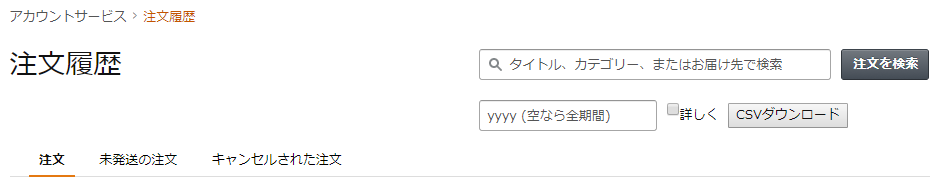
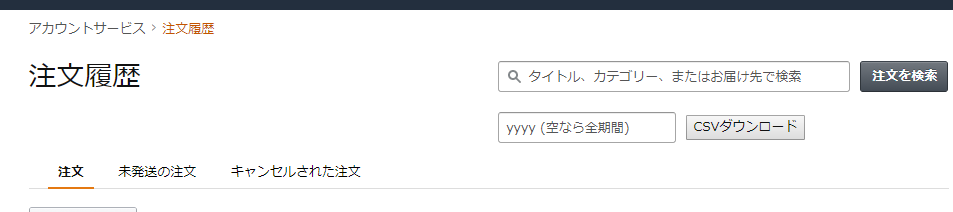
add more fields and improve number of http accesses

diff --git a/AmazonJpGetOrderHistory/amazonJpGetOrderHistory.user.js b/AmazonJpGetOrderHistory/amazonJpGetOrderHistory.user.js
@@ -11,17 +11,146 @@
 
 waitForKeyElements("#searchForm", appendForm);
 
-function main(year, detailFlag) {
+function appendForm() {
+    $("#searchForm").parent().parent().parent().after(`
+<div class="a-row">
+    <div class="a-column a-span6 a-span-last">
+        <form id="get-order-history-form">
+            <input id="get-order-history-year" type="text" placeholder="yyyy (空なら全期間)" pattern="[0-9]{4}" maxLength="4">
+            <input id="get-order-history-button" type="submit" value="CSVダウンロード">
+        </form>
+    </div>
+</div>
+    `);
+    $("#get-order-history-form").submit(function() {
+        event.preventDefault();
+        main($("#get-order-history-year").val());
+    });
+}
+
+function main(year) {
     var yearList = getYearList();
     if(!!year) {
         if(yearList.includes(year)){
-            getOrderHistory([year], detailFlag);
+            getOrderHistory([year]);
         } else {
             alert("no order for that year");
         }
     } else {
-        getOrderHistory(yearList, detailFlag);
+        getOrderHistory(yearList);
     }
+}
+
+function getYearList() {
+   var list = [];
+   $.each($("[id^=orderFilterEntry-year-]"), function(i, val) {
+       var text = $(val).text().trim();
+       list.push(text.substr(0, 4));
+   });
+   return list;
+}
+
+function getOrderHistory(yearList) {
+    var pageList = [], purchaseList = [], orderInfoList = [];
+    $.when.apply(null,  getYearRequestList(yearList, pageList))
+    .then(function() { // created page list
+        $.when.apply(null, getPageRequestList(pageList, purchaseList, orderInfoList))
+        .then(function() { // created most data but need to finalize with detail access for some orders.
+            $.when.apply(null,  getOrderRequestList(orderInfoList, purchaseList))
+            .then(function() {
+                sortByDate(purchaseList);
+                download(purchaseList);
+//                console.table(purchaseList);
+            });
+        });
+    });
+}
+
+function getYearRequestList(yearList, pageList) {
+    var list = [];
+    $.each(yearList, function(i, year) {
+        list.push(createAjaxRequest("/gp/your-account/order-history/?orderFilter=year-" + year, function(data) {
+          pageList.push.apply(pageList, getPageList(data, year));
+        }));
+    });
+    return list;
+}
+
+function getPageList(html, year) {
+    var list = [];
+    var lastIdx = (parseInt($(html).find("ul.a-pagination li.a-normal:last a").text()) - 1) * 10;
+    if(isNaN(lastIdx)) {
+        lastIdx = 0;
+    }
+    for(var idx = lastIdx; idx >= 0; idx -= 10) {
+        list.push("/gp/your-account/order-history/?orderFilter=year-" + year + "&startIndex=" + idx);
+    }
+    return list;
+}
+
+function getPageRequestList(pageList, purchaseList, orderInfoList) {
+    var list = [];
+    $.each(pageList, function(i, page) {
+        list.push(createAjaxRequest(page, function(data) {
+            fillList(data, purchaseList, orderInfoList);
+        }));
+    });
+    return list;
+}
+
+function fillList(html, purchaseList, orderInfoList) {
+    var orderList = $(html).find(".order");
+    $.each(orderList, function(i, order){
+        var values = $(order).find(".order-info .a-color-secondary.value");
+        var orderInfo = {
+            "id": values[2].innerText.trim(),
+            "date": fillZero(values[0].innerText.replace(/[年月]/g,"-").replace("日","").trim()),
+            "price": values[1].innerText.replace(/[￥,]/g,"").trim()
+        };
+
+        if($(order).find(".shipment .a-fixed-right-grid:contains('すべての商品を表示')").length) {
+            orderInfoList.push(orderInfo);
+        } else {
+            purchaseList.push.apply(purchaseList, getPurchaseItemList(order, orderInfo));
+        }
+    });
+}
+
+function getPurchaseItemList(html, orderInfo) {
+    var list = [];
+    var itemList = $(html).find(".shipment .a-fixed-left-grid");
+    $.each(itemList, function(i, item) {
+        var detail = $(item).find(".a-fixed-left-grid-col.a-col-right > .a-row");
+        list.push({
+            "id": orderInfo.id,
+            "date": orderInfo.date,
+            "name": detail[0].innerText.trim().replace(/^商品名：|、数量：\d+$|,/g,"").split("\n")[0],
+            "url": "https://www.amazon.co.jp" + $(detail[0]).find("a").attr("href").split("ref=")[0],
+            "seller": detail.find("span:contains('販売: ')").text().trim().replace(/^販売:|,/g,"").trim().trim().split("\n")[0],
+            "unitPrice": detail.find("span:contains('￥ ')").text().replace(/[￥,]/g,"").trim(),
+            "quantity": $(item).find(".item-view-qty").text().trim() || "1",
+            "orderPrice": orderInfo.price
+        });
+    });
+    return list;
+}
+
+function getOrderRequestList(orderInfoList, purchaseList) {
+    var list = [];
+    $.each(orderInfoList, function(i, orderInfo) {
+        list.push(createAjaxRequest("/gp/your-account/order-details/?orderID=" + orderInfo.id, function(data) {
+          purchaseList.push.apply(purchaseList, getPurchaseItemList(data, orderInfo));
+        }));
+    });
+    return list;
+}
+
+function createAjaxRequest(url, doneFunc) {
+    return $.ajax({
+        url: url,
+        // remove "X-Requested-With: XMLHttpRequest" header.
+        beforeSend: function(xhr) {xhr.setRequestHeader("X-Requested-With", {toString: function() {return "";}});}
+    }).done(doneFunc);
 }
 
 function download(history) {
@@ -44,117 +173,6 @@ function createCSV(history) {
     return header + body;
 }
 
-function appendForm() {
-    $("#searchForm").parent().parent().parent().after(`
-<div class="a-row">
-    <div class="a-column a-span6 a-span-last">
-        <form id="get-order-history-form">
-            <input id="get-order-history-year" type="text" placeholder="yyyy (空なら全期間)" pattern="[0-9]{4}" maxLength="4">
-            <input id="get-order-history-detail-flag" type="checkbox">詳しく
-            <input id="get-order-history-button" type="submit" value="CSVダウンロード">
-        </form>
-    </div>
-</div>
-    `);
-    $("#get-order-history-form").submit(function() {
-        event.preventDefault();
-        main($("#get-order-history-year").val(), $("#get-order-history-flag").prop("checked"));
-    });
-}
-
-function getYearList() {
-   var list = [];
-   $.each($("[id^=orderFilterEntry-year-]"), function(i, val) {
-       var text = $(val).text().trim();
-       list.push(text.substr(0, 4));
-   });
-   return list;
-}
-
-function getOrderHistory(yearList, detailFlag) {
-    var pageList = [], orderList = [], detailList = [];
-    $.when.apply(null,  getYearRequestList(yearList, pageList))
-    .then(function() {
-        $.when.apply(null, getPageRequestList(pageList, orderList))
-        .then(function() {
-            sortByDate(orderList);
-            if(detailFlag) {
-                $.when.apply(null,  getOrderRequestList(orderList, detailList))
-                .then(function() {
-                    // a
-                });
-            } else {
-                download(orderList)
-//                console.table(orderList);
-            }
-        });
-    });
-}
-
-function getYearRequestList(yearList, pageList) {
-    var list = [];
-    $.each(yearList, function(i, year) {
-        list.push($.ajax({
-          url: "/gp/your-account/order-history/?orderFilter=year-" + year,
-          beforeSend: function(xhr) {
-              xhr.setRequestHeader("X-Requested-With", {toString: function() {return "";}});
-          }
-        }).done(function(data){
-            pageList.push.apply(pageList, getPageList(data, year));
-        }));
-    });
-    return list;
-}
-
-function getPageRequestList(pageList, orderList) {
-    var list = [];
-    $.each(pageList, function(i, page) {
-        list.push($.ajax({
-            url: page,
-            beforeSend: function(xhr) {
-              xhr.setRequestHeader("X-Requested-With", {toString: function() {return "";}});
-            }
-        }).done(function(data){
-            orderList.push.apply(orderList, getOrderList(data));
-        }));
-    });
-    return list;
-}
-
-function getOrderRequestList(orderList, detailList) {
-    var list = [];
-
-    return list;
-}
-
-function getPageList(html, year) {
-    var list = [];
-    var lastIdx = (parseInt($(html).find("ul.a-pagination li.a-normal:last a").text()) - 1) * 10;
-    if(isNaN(lastIdx)) {
-        lastIdx = 0;
-    }
-    for(var idx = lastIdx; idx >= 0; idx -= 10) {
-        // e.g. https://www.amazon.co.jp/gp/your-account/order-history/?orderFilter=year-2017&startIndex=80
-        list.push("/gp/your-account/order-history/?orderFilter=year-" + year + "&startIndex=" + idx);
-    }
-    return list;
-}
-
-function getOrderList(html) {
-    var list = [];
-    var loop = $(html).find(".a-fixed-right-grid:not([class*=a-spacing-top-])");
-    $.each(loop, function(i, val) {
-        var values = $(val).find(".a-color-secondary.value");
-        var date = values[0].innerText.replace(/[年月]/g,"-").replace("日","").trim();
-        list.push({
-            "id"    : values[2].innerText.trim(),
-            "date"  : fillZero(values[0].innerText.replace(/[年月]/g,"-").replace("日","").trim()),
-            "price" : values[1].innerText.replace(/[￥,]/g,"").trim()
-        });
-    });
-    return list;
-}
-
 function fillZero(date) {
     var list = date.split("-");
     for(var i=1; i<list.length; i++){
@@ -169,6 +187,8 @@ function sortByDate(data) {
     data.sort(function(a, b) {
         if(a.date < b.date) return -1;
         if(a.date > b.date) return 1;
+        if(a.name < b.name) return -1;
+        if(a.name > b.name) return 1;
         return 0;
     });
 }

diff --git a/AmazonJpGetOrderHistory/README.md b/AmazonJpGetOrderHistory/README.md
@@ -2,16 +2,15 @@
 Create a CSV file for order history.
 
 ## Detail
-Click `CSVダウンロード` to download CSV.
+Click `CSVダウンロード` to download CSV. 
+
 <img src="amazonhistory.png" width="640" />
 
-### Simple Mode
+### CSV row example
 
-|id|date|price|
-|:---|:---|:---|
-|e.g. 123-1234567-1234567|e.g. 2017-01-01|e.g. 12345|
-|...|...|...|
+|id|date|name|url|seller|unitPrice|quantity|orderPrice|
+|:---|:---|:---|:---|:---|:---|:---|:---|
+|123-1234567-1234567|2017-01-01|DUO 3.0|https://www.amazon.co.jp/gp/product/4900790052/|Amazon Japan G.K.|1260|1|12345|
+|...|...|...|...|...|...|...|...|
 
-### Detail Mode
-
-\# detail mode not implemented yet.
+It could take several tens of seconds. (approx. a thousand orders took 40 seconds.)
